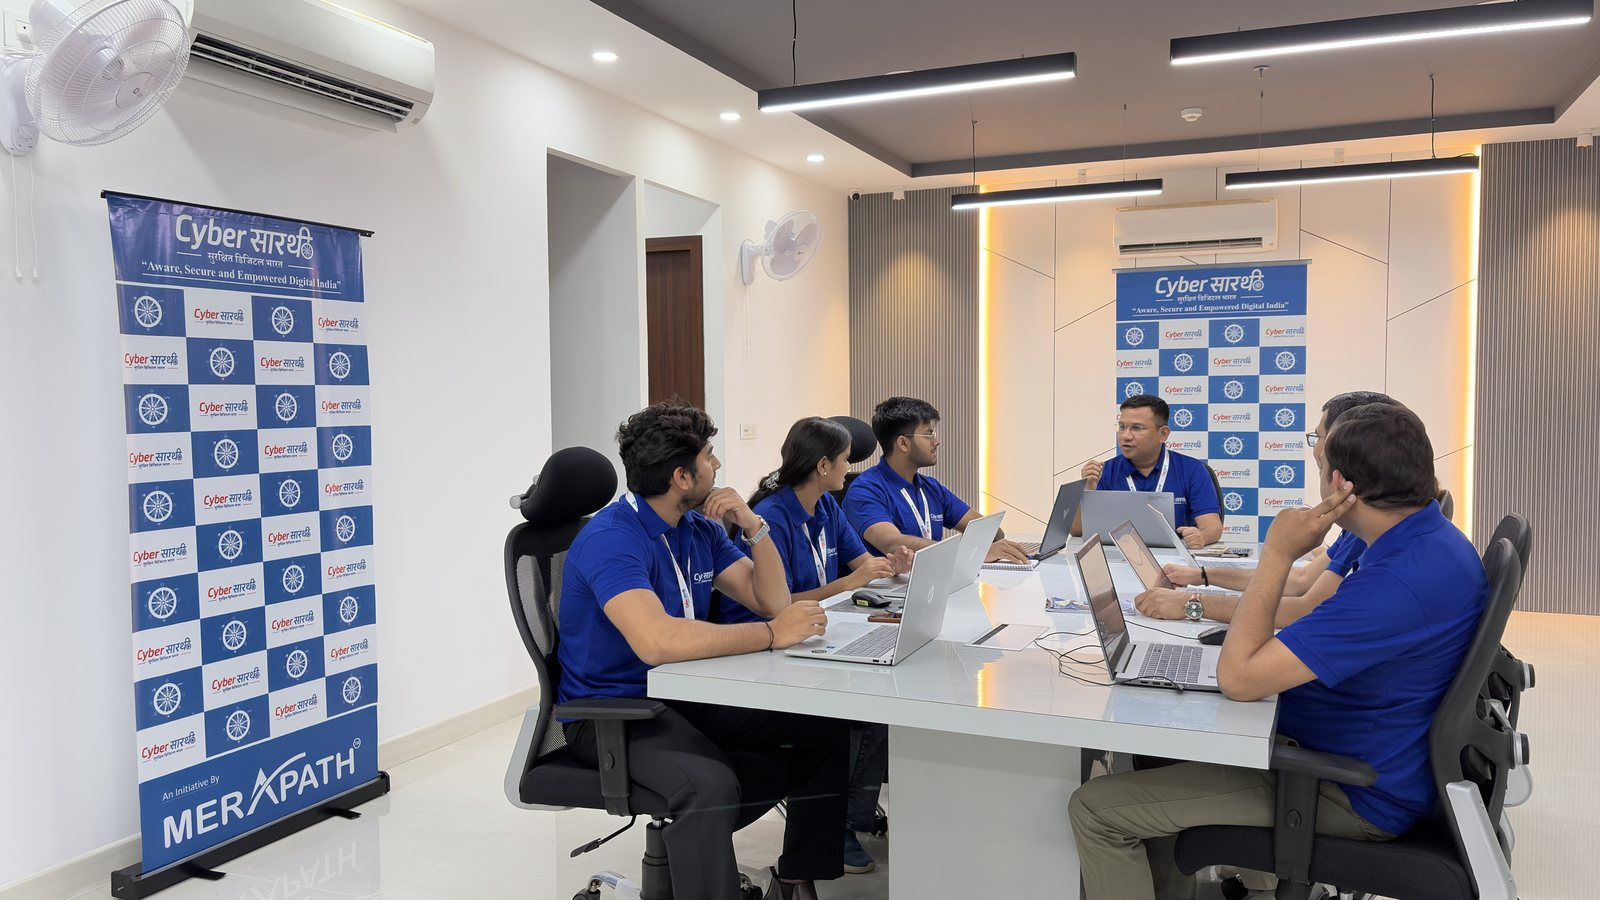
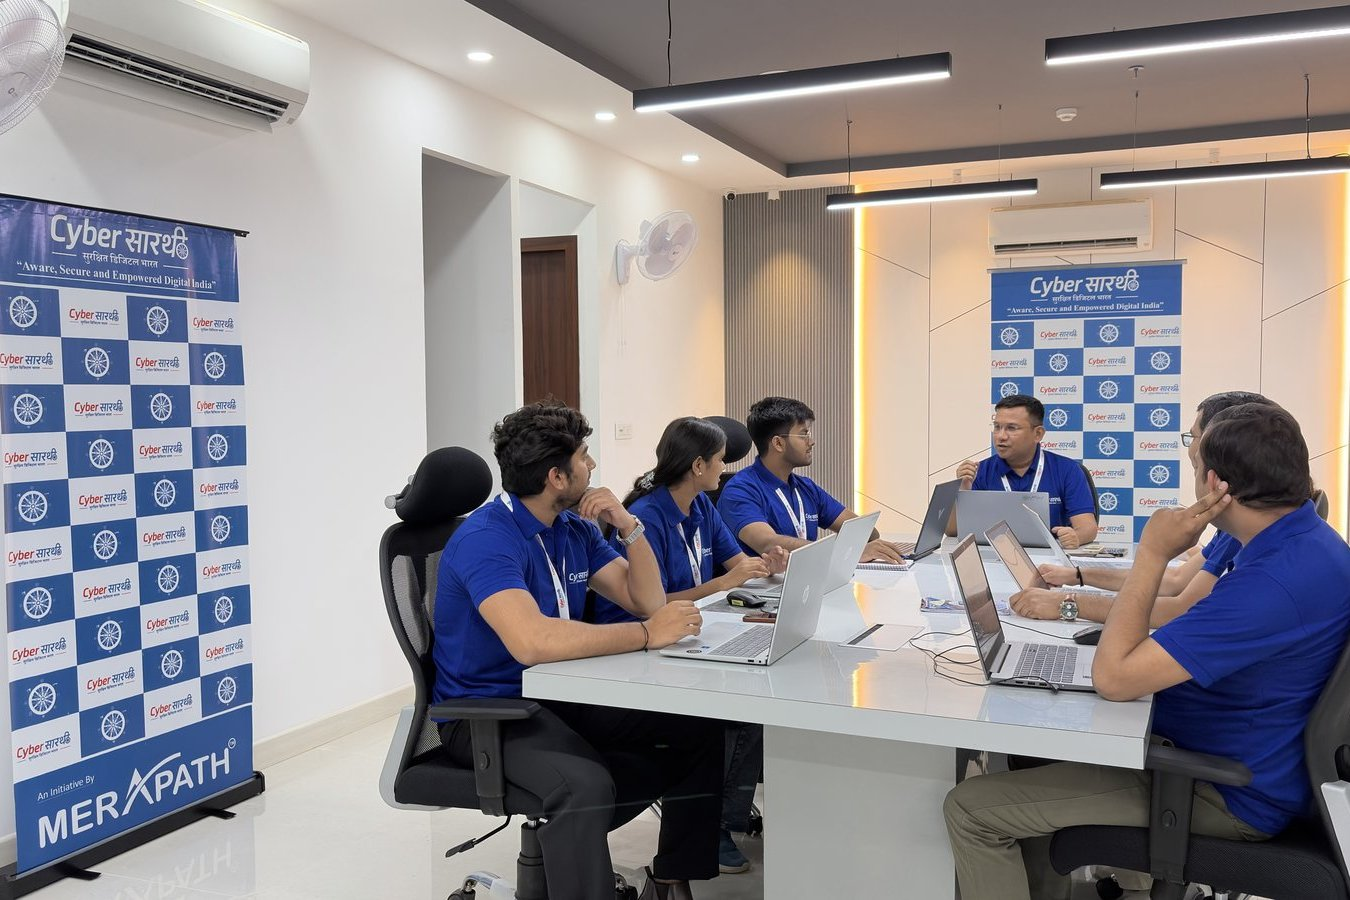
Make every carousel auto-advance, and fill its frame edge to edge
PhotoCarousel now slides a translated track instead of swapping a single
image, advances itself every 5s, and puts the caption at the bottom over
a scrim with the dots below the frame — they shared a corner before.

Auto-advance pauses on hover and on keyboard focus, and does not start at
all under prefers-reduced-motion, where the slide transition is dropped
too. An animation the reader cannot stop is the thing that setting exists
to prevent.

The blank side margins are gone because the sources are now cropped to
each frame's exact ratio rather than fitted into it: 3:2 for the creative
and team carousels, 3:4 for the prototype one. Cropping is a content job
— object-contain was only ever hiding the mismatch behind matting.

Adds the VIHAAN '26 certificate as a creative slide (rotated upright from
the scan; the 3:2 trim eats paper margin only, no text), and turns the
creative section's static three-photo grid into that carousel.

The quote line takes the accent colour.

diff --git a/src/components/ui/photo-carousel.tsx b/src/components/ui/photo-carousel.tsx
@@ -1,26 +1,25 @@
 "use client";
 
-import { useState } from "react";
+import { useEffect, useState } from "react";
 import { ChevronLeft, ChevronRight } from "lucide-react";
+import { useReducedMotion } from "framer-motion";
 import { cn } from "@/lib/cn";
 import { Photo } from "./photo";
 import type { SiteImage } from "@/content/images";
 
-const SIZES = "(min-width: 768px) 33vw, 100vw";
-
 /**
- * A cycling set of photographs in one cell's footprint — arrows and dots
- * rather than the fanned pile this replaced. Both controls stay visible
- * unconditionally (no hover-gating): a hover-only affordance is invisible on
- * touch, which was the exact bug the fan version had before it grew a click
- * handler.
+ * An auto-advancing carousel that slides horizontally.
  *
- * `caption`, if given, is a fixed label for the whole set — e.g. "The team"
- * when every slide is the same group of people. Leave it unset and each
- * slide falls back to its own `image.caption` instead, for a set where the
- * photos are of different things. Either way it's rendered top-left, never
- * bottom, so it can't collide with the dots — a per-slide `Photo` caption
- * rendered at the bottom (its default position) would.
+ * Every slide is a full-bleed `object-cover` fill — the sources in `public/`
+ * are pre-cropped to the frame's aspect ratio, so nothing letterboxes and
+ * nothing important is cut. That is a content job, not a CSS one: pick the
+ * frame to suit the photographs rather than forcing mismatched shapes into a
+ * shared box and hoping `contain` saves it.
+ *
+ * Controls stay visible instead of appearing on hover, because hover does not
+ * exist on touch. Auto-advance pauses on hover and on keyboard focus, and is
+ * off entirely under `prefers-reduced-motion` — an animation the reader cannot
+ * stop is exactly what that setting exists to prevent.
  */
 export function PhotoCarousel({
   images,
@@ -28,80 +27,133 @@ export function PhotoCarousel({
   ariaLabel = "Photographs",
   className,
   priority,
-  fit = "cover",
+  interval = 5000,
 }: {
   images: SiteImage[];
+  /** Fixed label for every slide. Omit to use each image's own `caption`. */
   caption?: string;
   ariaLabel?: string;
   className?: string;
   priority?: boolean;
-  fit?: "cover" | "contain";
+  interval?: number;
 }) {
   const [index, setIndex] = useState(0);
-  const go = (delta: number) => setIndex((i) => (i + delta + images.length) % images.length);
-  const label = caption ?? images[index].caption;
+  const [paused, setPaused] = useState(false);
+  const reduceMotion = useReducedMotion();
+
+  const count = images.length;
+  const go = (delta: number) => setIndex((i) => (i + delta + count) % count);
+
+  useEffect(() => {
+    if (paused || reduceMotion || count < 2) return;
+    const id = setInterval(() => setIndex((i) => (i + 1) % count), interval);
+    return () => clearInterval(id);
+  }, [paused, reduceMotion, count, interval]);
+
+  // The aspect utility belongs on each slide, not on the wrapper — the wrapper
+  // also holds the dots below the frame, and constraining it to the image's
+  // ratio would squeeze them into it.
+  const { aspect: slideAspect, rest: wrapperClass } = splitAspect(className);
 
   return (
     <div
-      className={cn("group relative aspect-[3/2] w-full", className)}
+      className={cn("w-full", wrapperClass)}
       role="region"
       aria-roledescription="carousel"
       aria-label={ariaLabel}
+      onMouseEnter={() => setPaused(true)}
+      onMouseLeave={() => setPaused(false)}
+      onFocusCapture={() => setPaused(true)}
+      onBlurCapture={() => setPaused(false)}
     >
-      {/* showCaption off: this component renders the label itself, top-left.
-          Photo's own figcaption sits bottom-centre, where it would both
-          duplicate that label and collide with the dots. */}
-      <Photo
-        image={images[index]}
-        sizes={SIZES}
-        className="h-full"
-        priority={priority}
-        fit={fit}
-        showCaption={false}
-      />
-
-      {label && (
-        <span className="eyebrow pointer-events-none absolute left-3 top-3 z-10 rounded-full bg-black/55 px-2.5 py-1 text-[11px] text-white backdrop-blur-sm">
-          {label}
-        </span>
-      )}
-
-      {images.length > 1 && (
-        <>
-          <button
-            type="button"
-            onClick={() => go(-1)}
-            aria-label="Previous photo"
-            className="absolute left-2 top-1/2 z-10 flex h-8 w-8 -translate-y-1/2 items-center justify-center rounded-full bg-black/45 text-white backdrop-blur-sm transition-colors hover:bg-black/65"
-          >
-            <ChevronLeft className="h-4 w-4" />
-          </button>
-          <button
-            type="button"
-            onClick={() => go(1)}
-            aria-label="Next photo"
-            className="absolute right-2 top-1/2 z-10 flex h-8 w-8 -translate-y-1/2 items-center justify-center rounded-full bg-black/45 text-white backdrop-blur-sm transition-colors hover:bg-black/65"
-          >
-            <ChevronRight className="h-4 w-4" />
-          </button>
-
-          <div className="absolute inset-x-0 bottom-3 z-10 flex items-center justify-center gap-1.5">
-            {images.map((image, i) => (
-              <button
-                key={image.src}
-                type="button"
-                onClick={() => setIndex(i)}
-                aria-label={`Go to photo ${i + 1}`}
-                aria-current={i === index}
-                className={cn(
-                  "h-1.5 rounded-full transition-all",
-                  i === index ? "w-4 bg-white" : "w-1.5 bg-white/50 hover:bg-white/75",
-                )}
+      <div className="relative overflow-hidden rounded-lg bg-bg-raised-2">
+        {/* One track translated by whole slides. Each slide is w-full and
+            shrink-0, so the track is exactly count × 100% wide. */}
+        <div
+          className={cn(
+            "flex",
+            !reduceMotion &&
+              "transition-transform duration-700 ease-[cubic-bezier(0.16,1,0.3,1)]",
+          )}
+          style={{ transform: `translateX(-${index * 100}%)` }}
+        >
+          {images.map((image, i) => (
+            <div key={image.src} className="relative w-full shrink-0">
+              <Photo
+                image={image}
+                sizes="(min-width: 1024px) 1120px, 100vw"
+                className={cn("w-full", slideAspect)}
+                priority={priority && i === 0}
+                showCaption={false}
               />
-            ))}
-          </div>
-        </>
+              {(caption ?? image.caption) && (
+                <div className="pointer-events-none absolute inset-x-0 bottom-0 bg-gradient-to-t from-black/75 via-black/35 to-transparent px-5 pb-4 pt-14">
+                  <span className="eyebrow text-[11px] text-white">
+                    {caption ?? image.caption}
+                  </span>
+                </div>
+              )}
+            </div>
+          ))}
+        </div>
+
+        {count > 1 && (
+          <>
+            <button
+              type="button"
+              onClick={() => go(-1)}
+              aria-label="Previous photo"
+              className="absolute left-3 top-1/2 z-10 flex h-9 w-9 -translate-y-1/2 items-center justify-center rounded-full bg-black/40 text-white backdrop-blur-sm transition-colors hover:bg-black/70"
+            >
+              <ChevronLeft className="h-4 w-4" />
+            </button>
+            <button
+              type="button"
+              onClick={() => go(1)}
+              aria-label="Next photo"
+              className="absolute right-3 top-1/2 z-10 flex h-9 w-9 -translate-y-1/2 items-center justify-center rounded-full bg-black/40 text-white backdrop-blur-sm transition-colors hover:bg-black/70"
+            >
+              <ChevronRight className="h-4 w-4" />
+            </button>
+          </>
+        )}
+      </div>
+
+      {/* Dots sit below the frame rather than on it — inside, they would land
+          on the caption scrim in the same corner of the image. */}
+      {count > 1 && (
+        <div className="mt-3 flex items-center justify-center gap-2">
+          {images.map((image, i) => (
+            <button
+              key={image.src}
+              type="button"
+              onClick={() => setIndex(i)}
+              aria-label={`Go to photo ${i + 1}`}
+              aria-current={i === index}
+              className={cn(
+                "h-1.5 rounded-full transition-all",
+                i === index ? "w-6 bg-accent" : "w-1.5 bg-border-strong hover:bg-fg-faint",
+              )}
+            />
+          ))}
+        </div>
       )}
     </div>
   );
+}
+
+/**
+ * The caller sets the frame's shape via `className`, but that lands on the
+ * outer wrapper. Each slide needs the aspect (or it collapses to zero height
+ * inside the flex track) and the wrapper must not have it (it also holds the
+ * dots). So split the two apart.
+ */
+function splitAspect(className?: string) {
+  const parts = className?.split(/\s+/).filter(Boolean) ?? [];
+  const aspect = parts.filter((c) => c.includes("aspect-"));
+  const rest = parts.filter((c) => !c.includes("aspect-"));
+  return {
+    aspect: aspect.length ? aspect.join(" ") : "aspect-[3/2]",
+    rest: rest.join(" "),
+  };
 }

diff --git a/src/components/sections/creative.tsx b/src/components/sections/creative.tsx
@@ -1,10 +1,8 @@
 import { Container } from "@/components/ui/container";
 import { SectionHeading } from "@/components/ui/section-heading";
 import { RevealOnScroll } from "@/components/ui/reveal";
-import { Photo } from "@/components/ui/photo";
+import { PhotoCarousel } from "@/components/ui/photo-carousel";
 import { creativeItems, creativeImages, creativeQuote } from "@/content/creative";
-
-const [anchor, ...rest] = creativeImages;
 
 export function Creative() {
   return (
@@ -17,29 +15,18 @@ export function Creative() {
           description="Music and film aren't a side note here — they run on the same instinct for clarity and pacing as the engineering work."
         />
 
-        {/* Anchor portrait left, two stacked shots right. The right column
-            stretches to the anchor's height so the two columns end level;
-            fixed aspect ratios on both sides would leave them ragged. */}
-        <div className="mt-14 grid grid-cols-1 gap-6 md:grid-cols-[1.15fr_1fr]">
-          <RevealOnScroll>
-            <Photo image={anchor} className="aspect-[4/5]" />
-          </RevealOnScroll>
-
-          <div className="grid grid-cols-1 gap-6 md:h-full md:grid-rows-2">
-            {rest.map((image, i) => (
-              <RevealOnScroll
-                key={image.src}
-                delay={(i + 1) * 0.08}
-                className="md:min-h-0"
-              >
-                <Photo image={image} className="aspect-[16/10] md:aspect-auto md:h-full" />
-              </RevealOnScroll>
-            ))}
-          </div>
-        </div>
+        <RevealOnScroll className="mt-14">
+          <PhotoCarousel
+            images={creativeImages}
+            ariaLabel="Music and performance photographs"
+            className="aspect-[3/2]"
+          />
+        </RevealOnScroll>
 
         <RevealOnScroll delay={0.1}>
-          <p className="mx-auto mt-16 max-w-3xl text-balance text-center font-display text-2xl italic leading-snug text-fg-muted md:text-3xl">
+          {/* Accent, matching the hero's italic second line — the one place
+              the palette's 10% colour is allowed to carry a whole sentence. */}
+          <p className="mx-auto mt-16 max-w-3xl text-balance text-center font-display text-2xl italic leading-snug text-accent md:text-3xl">
             {creativeQuote}
           </p>
         </RevealOnScroll>

diff --git a/src/content/creative.ts b/src/content/creative.ts
@@ -9,24 +9,29 @@ export type CreativeItem = {
   description: string;
 };
 
-// `guitar-solo` is the anchor (portrait 4:5); the other two stack beside it.
+// Carousel slides, in order. Every file is pre-cropped to 3:2 so each one
+// fills the frame edge to edge — including the certificate, whose paper margin
+// absorbs the trim without touching any of its text.
 export const creativeImages: SiteImage[] = [
   {
     src: "/creative/guitar-solo.jpg",
     alt: "Hariank singing and playing acoustic guitar on stage at a university event.",
     caption: "Manav Rachna University",
-    position: "center 30%",
   },
   {
     src: "/creative/band-bimtech.jpg",
     alt: "Moksh on stage at BIMTECH, in front of the band's name in lights.",
     caption: "1st · War of Bands, VIHAAN '26",
-    position: "center 70%",
+  },
+  {
+    src: "/creative/vihaan-certificate.jpg",
+    alt: "VIHAAN '26 certificate of merit awarded to Hariank Juneja for first position in War of Bands at Birla Institute of Management Technology, February 2026.",
+    caption: "Certificate of Merit · BIMTECH",
   },
   {
     src: "/creative/band-group.jpg",
     alt: "Hariank playing electric guitar on stage alongside the rest of the band.",
-    position: "center 62%",
+    caption: "Moksh",
   },
 ];
 

diff --git a/src/content/projects.ts b/src/content/projects.ts
@@ -371,11 +371,10 @@ export const projects: Project[] = [
           "Those sensors are cost-prohibitive and not sold as off-the-shelf consumer hardware, so the signal was scoped out. The shipped prototype fuses HR, SpO2, and ECG instead — all from sensors (MAX30100, AD8232) that are actually accessible to a solo, self-funded build.",
       },
     ],
-    // Every slide is the full uncropped frame, matted rather than cropped (the
-    // carousel renders these with object-contain). The box is 3:4 because
-    // three of the four photos are natively 3:4 and so fill it exactly; the
-    // 9:16 reading shot mattes at the sides but stays whole, laptop included.
-    heroClassName: "aspect-[3/4] mx-auto w-full max-w-xl",
+    // All four sources are cropped to 3:4 in public/, so every slide fills the
+    // frame edge to edge — no matting. The reading shot's crop keeps the
+    // laptop, the breadboard and the lit sensor; only empty desk is lost.
+    heroClassName: "aspect-[3/4] mx-auto w-full max-w-lg",
     carousel: [
       {
         src: "/work/band-reading.jpg",

diff --git a/src/app/work/[slug]/page.tsx b/src/app/work/[slug]/page.tsx
@@ -112,15 +112,10 @@ export default async function ProjectPage({
           the shared 2-up/3-up detail-row size. */}
       {!hasGallery && project.carousel && (
         <Container className="pt-12 md:pt-16">
-          {/* contain, not cover: these are phone photos of hardware at mixed
-              aspect ratios, and cropping them to a shared box is what kept
-              cutting the subject out of frame. Matting costs some space and
-              loses nothing. */}
           <PhotoCarousel
             images={project.carousel}
             ariaLabel="Prototype photographs"
             className={project.heroClassName ?? "aspect-[16/10] md:aspect-[2/1]"}
-            fit="contain"
             priority
           />
         </Container>

diff --git a/schema.md b/schema.md
@@ -77,9 +77,11 @@ type Project = {
                                        // landscape crop (fits a screenshot); a portrait phone
                                        // photo needs its own aspect + max-width instead, or the
                                        // landscape crop cuts off whatever the shot is meant to show.
-  carousel?: SiteImage[];               // cycling arrows+dots carousel. With a gallery present, it
-                                       // shares the detail row; without one, it IS the lead —
-                                       // rendered at heroClassName's shape instead.
+  carousel?: SiteImage[];               // auto-advancing slide carousel. With a gallery present it
+                                       // shares the detail row (3:2 default); without one it IS
+                                       // the lead, at heroClassName's shape. Crop every source to
+                                       // the frame's ratio — slides are object-cover, so a
+                                       // mismatched source gets silently cropped.
   resultsStatus: string;               // §07, or §08 when priorArt is present — always shown
   accent: "coral" | "cyan" | "violet" | "amber";
     // maps to a CSS var in project-cover.tsx's accentVar and the OG image's accentHex —
@@ -137,8 +139,8 @@ const skillGroups: SkillGroup[]   // rendered as N columns (lg:grid-cols-4 in sk
 ```ts
 type CreativeItem = { title: string; description: string };
 
-const creativeImages: SiteImage[]    // exactly 3 — [0] is the 4:5 anchor, [1] and [2] stack
-                                        // beside it. A 4th would render off-layout.
+const creativeImages: SiteImage[]    // slides of the section's carousel, any length. Crop each
+                                        // source to 3:2 so it fills the frame edge to edge.
 const creativeQuote: string          // one line, display italic, between photos and cards
 const creativeItems: CreativeItem[]  // rendered as a 3-col grid (md:grid-cols-3 in creative.tsx)
 ```
